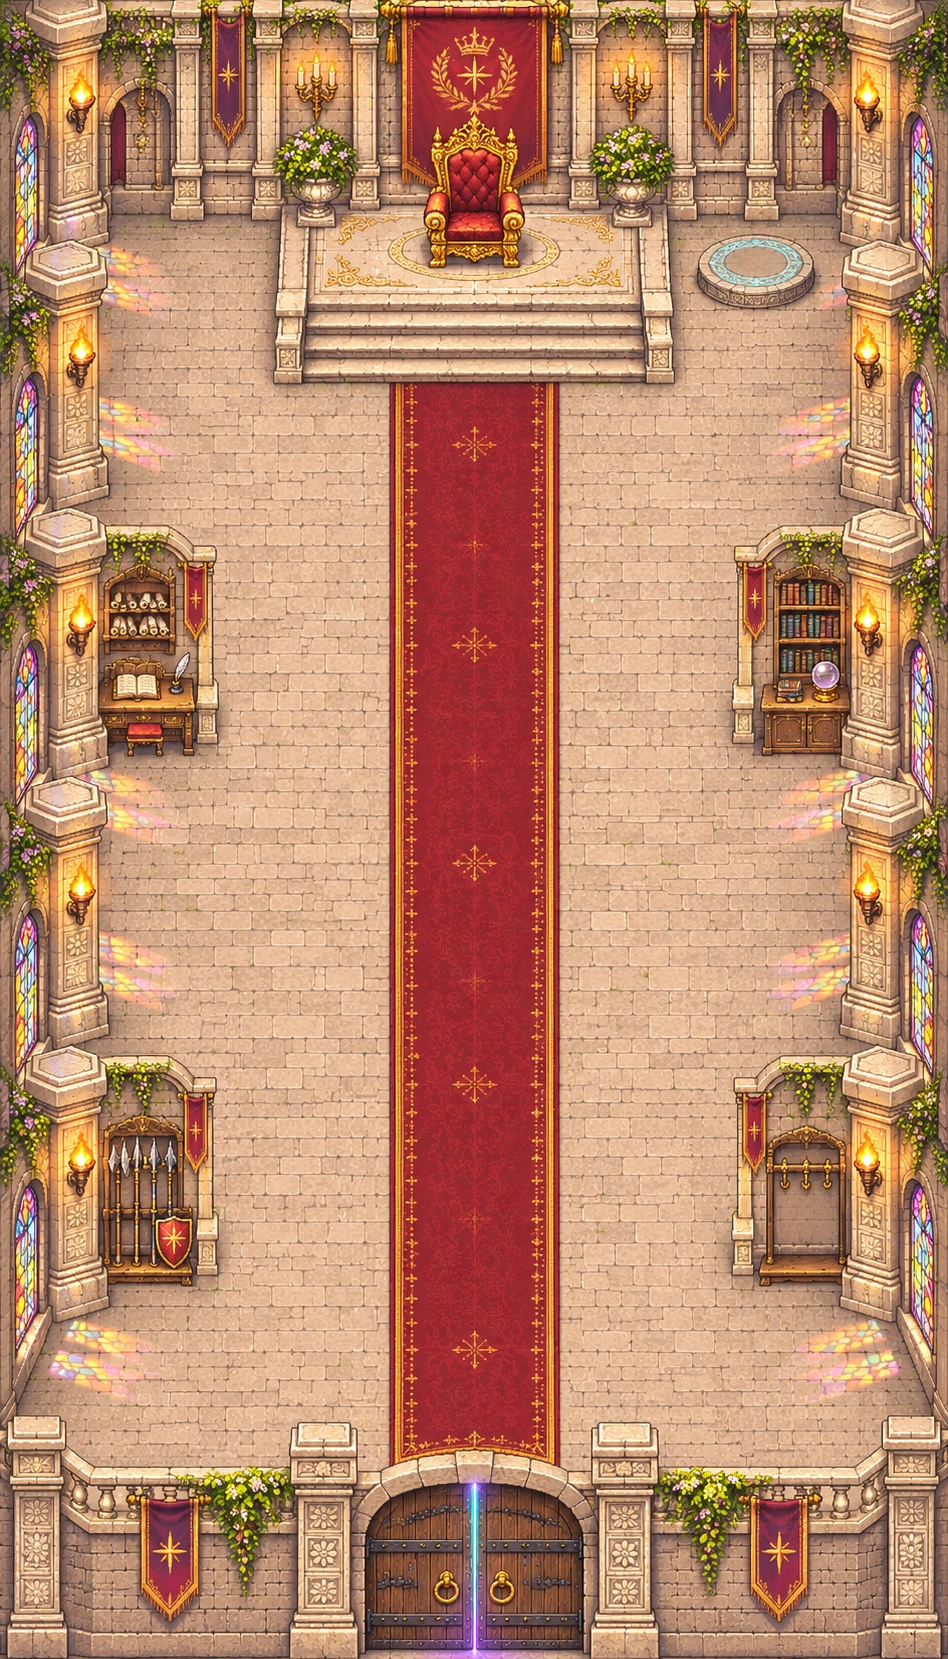
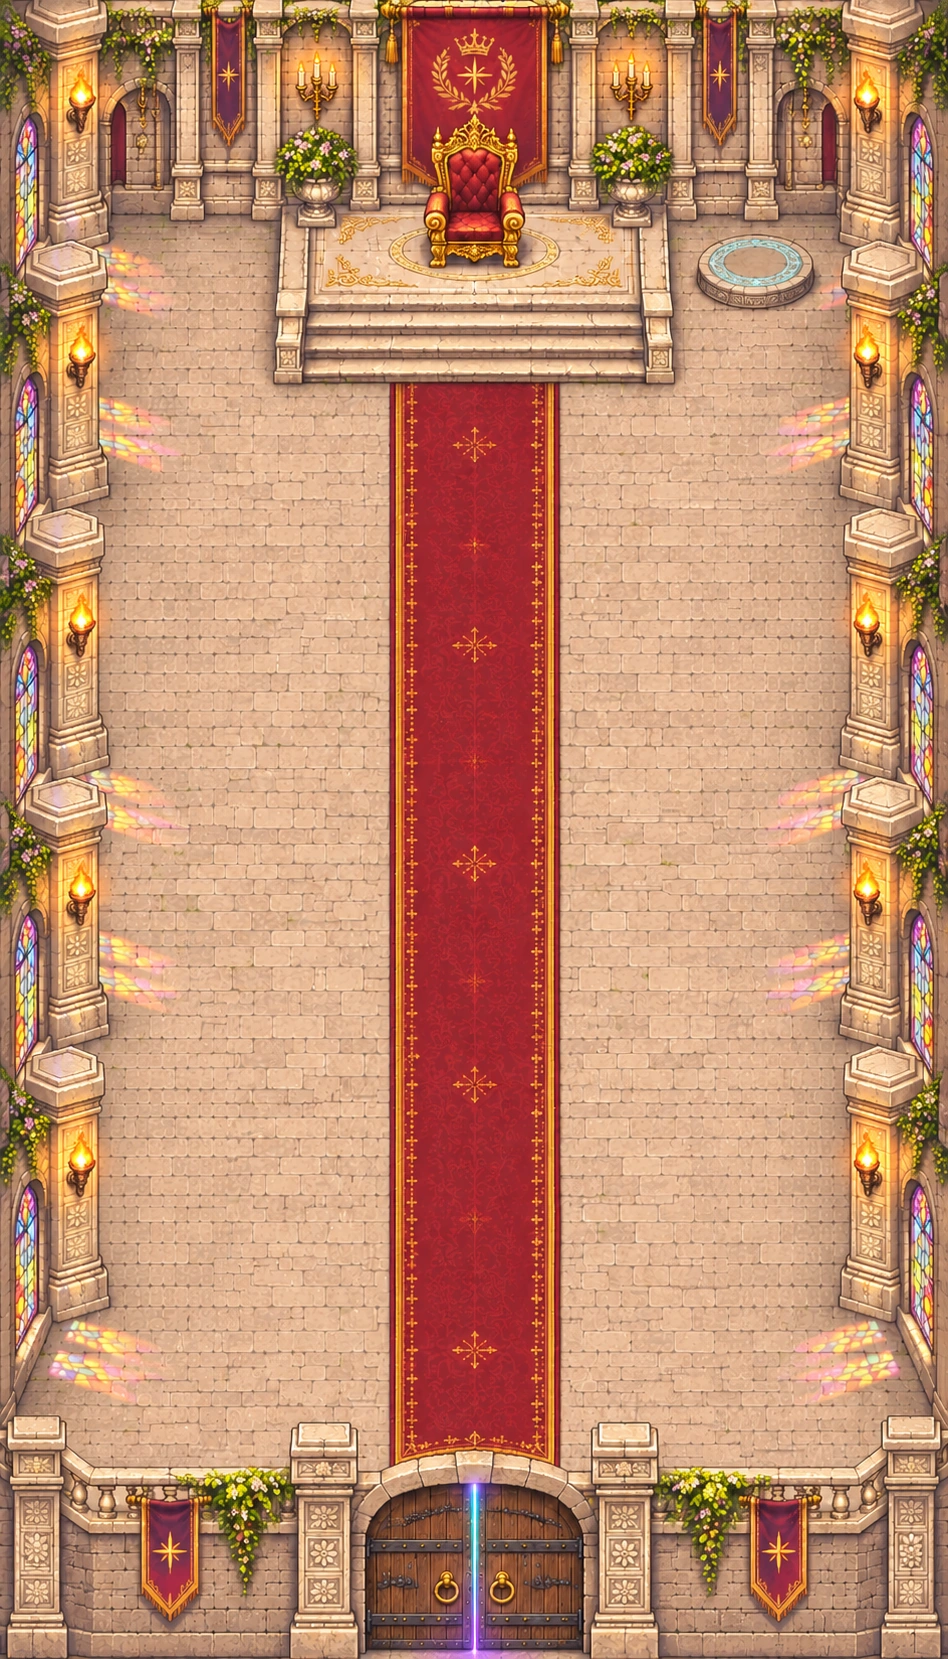
宫殿图换成去掉四个隔间的版本
Claude-Session: https://claude.ai/code/session_015MetZpZfHySQWDEPDS41Tu

diff --git a/demo/palace.html b/demo/palace.html
@@ -47,7 +47,7 @@ const NPC = [
 ];
 const PORTAL = { x: 755, y: 275 }, DOOR = { x: 474, y: 1450 }, THRONE = { x: 474, y: 230 };
 const hero = { x: 474, y: 1400, f: 1, mv: 0 }, K = {}; let joy = null, near = null, cam = { x: 474, y: 1400 }, T = 0, last = 0, msg = '', msgT = 0;
-const walk = (x, y) => x > 112 && x < 836 && y > 235 && y < 1440 && !(x > 270 && x < 678 && y < 392) && !((x < 225 || x > 725) && ((y > 545 && y < 765) || (y > 1075 && y < 1295))) && !NPC.some(n => Math.hypot(n.x - x, (n.y - y) * 1.6) < 34);
+const walk = (x, y) => x > 112 && x < 836 && y > 235 && y < 1440 && !(x > 270 && x < 678 && y < 392) && !NPC.some(n => Math.hypot(n.x - x, (n.y - y) * 1.6) < 34);
 addEventListener('keydown', e => { K[e.code] = 1; if (e.code === 'KeyE' && near) act(near, 0); }); addEventListener('keyup', e => K[e.code] = 0);
 addEventListener('touchstart', e => { const t = e.changedTouches[0]; if (t.target === cv && t.clientX < innerWidth * .6) joy = { id: t.identifier, x: t.clientX, y: t.clientY, dx: 0, dy: 0 }; }, { passive: true });
 addEventListener('touchmove', e => { for (const t of e.changedTouches) if (joy && t.identifier === joy.id) { joy.dx = t.clientX - joy.x; joy.dy = t.clientY - joy.y; } }, { passive: true });
